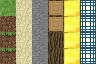
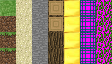
Made test scene a little bit cooler and added lighting pass to reflections.

diff --git a/src/main.cpp b/src/main.cpp
@@ -51,6 +51,15 @@ int main()
 	world.set(4, 17, 5, rc::material::CAGE);
 	world.set(4, 17, 6, rc::material::CAGE);
 
+	// Tree
+	world.set(8, 12, 5, rc::material::WOOD);
+	world.set(8, 12, 6, rc::material::WOOD);
+	for (int x = 7; x <= 9; x++)
+		for (int y = 11; y <= 13; y++)
+			for (int z = 7; z <= 9; z++)
+				world.set(x, y, z, rc::material::LEAF);
+	world.set(8, 12, 7, rc::material::WOOD);
+
 	// Create renderer
 	rc::renderer renderer;
 	renderer.setWorld(world);
@@ -97,14 +106,14 @@ int main()
 			if (abs(lastMousePos[0] - x) < 2 && abs(lastMousePos[1] - y) < 2) {
 				glm::vec3 pos, normal;
 				renderer.pick(x, y, pos, normal);
-				world.set(pos.x + normal.x, pos.y + normal.y, pos.z + normal.z, rc::material::GRASS);
+				world.set(pos.x + normal.x, pos.y + normal.y, pos.z + normal.z, rc::material::STONE);
 			}
 
 			lastMouseRight = 0;
 		}
 
 		// Update view
-		renderer.setCameraTarget(glm::vec3(cos(yaw) * 17.0f + 10.0f, sin(yaw) * 17.0f + 10.0f, 12.0f), glm::vec3(10.0f, 10.0f, -3.0f), 70.0f, (float)WIDTH / (float)HEIGHT);
+		renderer.setCameraTarget(glm::vec3(cos(yaw) * 17.0f + 10.0f, sin(yaw) * 17.0f + 10.0f, 12.0f), glm::vec3(10.0f, 10.0f, 0.0f), 70.0f, (float)WIDTH / (float)HEIGHT);
 
 		// Draw frame
 		renderer.drawFrame();

diff --git a/src/renderer.cpp b/src/renderer.cpp
@@ -266,7 +266,7 @@ namespace rc
 		glTexParameteri(GL_TEXTURE_2D, GL_TEXTURE_MAG_FILTER, GL_NEAREST);
 
 		glUniform1i(glGetUniformLocation(shaderProgram, "materials"), 1);
-		glUniform1f(glGetUniformLocation(shaderProgram, "materialCount"), 6);
+		glUniform1f(glGetUniformLocation(shaderProgram, "materialCount"), 7);
 
 		SOIL_free_image_data(pixels);
 	}

diff --git a/include/rc/world.hpp b/include/rc/world.hpp
@@ -19,7 +19,8 @@ namespace rc
 			STONE,
 			WOOD,
 			GOLD,
-			CAGE
+			CAGE,
+			LEAF
 		};
 	}
 
